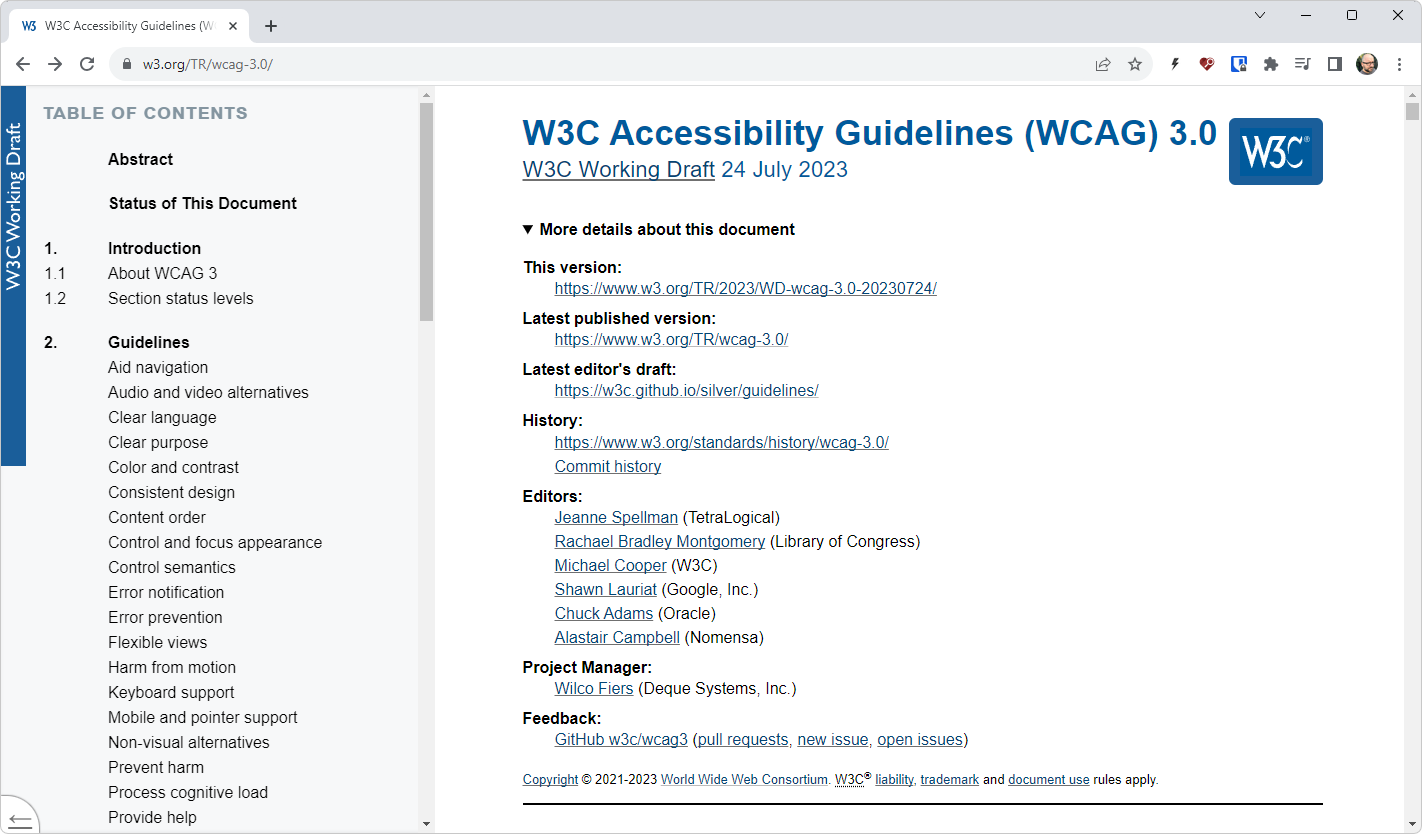
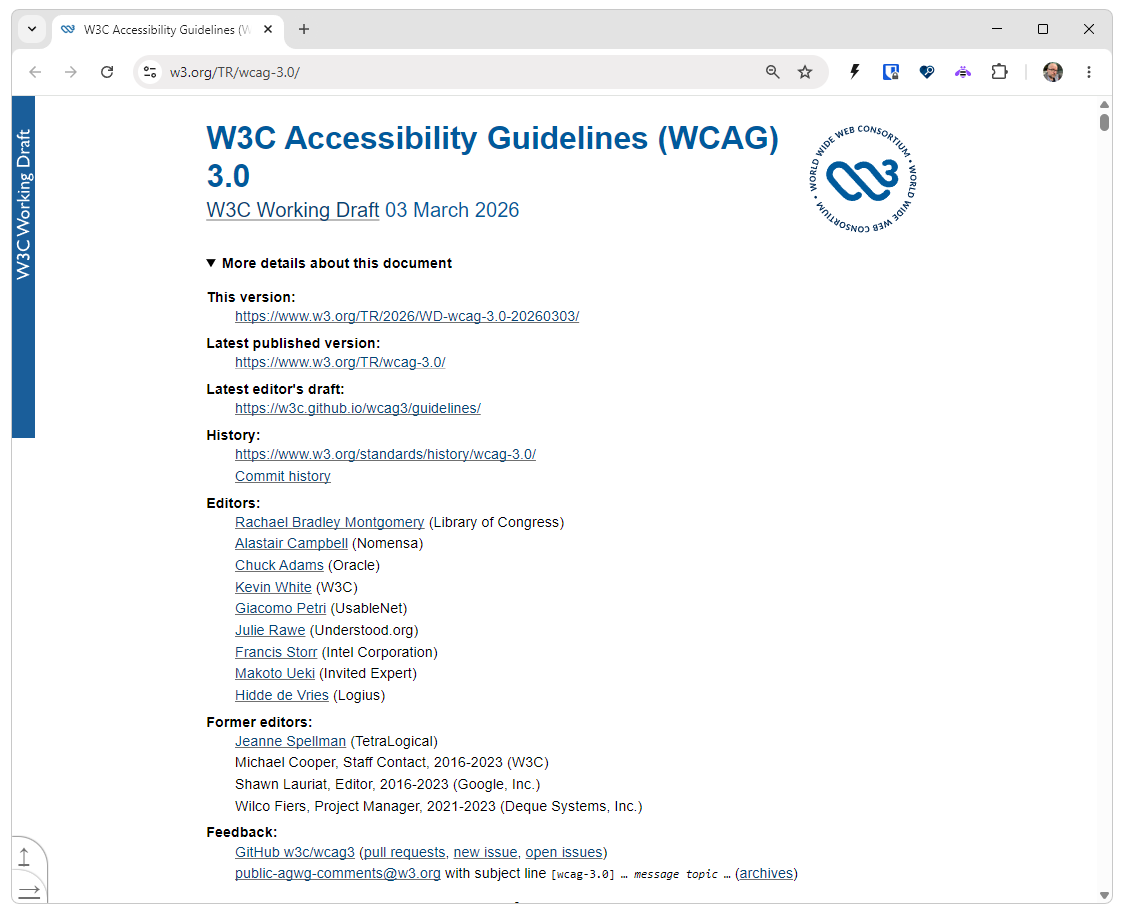
Update for 2026
* tweak examples
* include info about WCAG 2.x backlog TF and latest figures

Changed region(s): [[0.0, 0.0, 1.0, 1.0], [0.0622, 0.2806, 0.1867, 0.3741], [0.6844, 0.0624, 0.7156, 0.0935]]

diff --git a/index.html b/index.html
@@ -32,8 +32,7 @@
     <h2>about me …</h2>
     <ul>
     <li>principal accessibility specialist at <a target=_blank rel=noopener href="https://www.tetralogical.com/">TetraLogical</a></li>
-    <li>previously at The Paciello Group (now TPGi)</li>
-    <li>occasional W3C AGWG member</li>
+    <li>co-facilitator of the W3C AGWG WCAG 2.x backlog task force</li>
     <li>WCAG <strong>trash panda</strong></li>
     </ul>
 </div></section>
@@ -42,7 +41,7 @@
 
 <section class="slide listing"><div>
     <h2 lang="fr">déjà vu?</h2>
-    <p>you may have already seen an earlier version of this talk …</p>
+    <p>you may have already seen an earlier version of this talk</p>
     <p>even years later, <strong>the same question still bubbles up</strong><br><small>(on mailing lists, a11ySlack, mastodon, …)</small></p>
 </div></section>
 
@@ -66,7 +65,7 @@
 
 <section class="slide statement"><div>
     <div>
-        <p>far too often, auditors clearly <strong>dislike</strong> something, and look for a <strong>justification to fail it</strong> …</p>
+        <p>far too often, auditors clearly <strong>dislike</strong> something, and look for a <strong>justification to fail it</strong></p>
         <p><small>and I get it … sometimes it's just to show how smart we are</small></p>
     </div>
 </div></section>
@@ -92,7 +91,8 @@
 
 <section class="slide listing"><div>
     <h2>we are not <strong>lawyers</strong> (or judges)</h2>
-    <p>but our audits and evaluations often have some legal dimension to them.</p>
+    <p>but our audits and evaluations often have some legal dimension to them<br>
+    <small>(<abbr title="European Accessibility Act">EAA</abbr> / <abbr title="European Norm">EN</abbr> 301 549, <abbr lang="de" title="Barrierefreie-Informationstechnik-Verordnung">BITV</abbr>, <abbr lang="fr" title="Référentiel général d'amélioration de l'accessibilité">RGAA</abbr>, Section 508)</small></p>
     <ul>
         <li>evaluations should be as objective as possible</li>
         <li>evaluations should be consistent</li>
@@ -106,15 +106,6 @@
     <div>
         <p>WCAG is built on the idea that <strong>success criteria</strong> can be evaluated clearly, unambiguously and consistently…</p>
         <p class="context">… but that's not always the case</p>
-    </div>
-</div></section>
-
-<!-- -->
-
-<section class="slide statement"><div>
-    <div>
-        <p>with <strong class="new">WCAG 2.2</strong> we now have<br>9 more SCs!</p>
-        <p class="context">… just more potential for confusion and misinterpretation?</p>
     </div>
 </div></section>
 
@@ -297,22 +288,17 @@
 
 <section class="slide listing"><div>
     <div>
-        <h2>1.4.1 <strong>Use of Color</strong> (A)</h2>
-        <blockquote><p>Color is not used as the only visual means of conveying information, indicating an action, prompting a response, or distinguishing a visual element.</p></blockquote>
-        <img src="images/use-of-color-links.png" alt="Two lines of black text, both containing a link each; the links aren't underlines; in the first line, the link is blue, while in the second line the link is black just like the text (and not discernible at all visually)">
-        <p>both lines contain a link. but only in the first line is <strong>colour</strong> used.</p>
-        <p>the first cases <strong>fails</strong> 1.4.1 Use of Color, but the second <strong>passes</strong></p>
-        <p>auditors pondering failing the previous example for <strong>not</strong> using colour …</p>
+        <h2>1.3.1 <strong>Info and Relationships</strong> (A)</h2>
+        <blockquote><p>Information, structure, and relationships conveyed through presentation can be programmatically determined or are available in text.</p></blockquote>
+        <p>auditors pondering failing structured semantic content that is <strong>not</strong> styled/presented a certain way …</p>
     </div>
 </div></section>
 
 <!-- -->
 
-<section class="slide listing"><div>
+<section class="slide"><div>
     <div>
-        <h2>1.3.1 <strong>Info and Relationships</strong> (A)</h2>
-        <blockquote><p>Information, structure, and relationships conveyed through presentation can be programmatically determined or are available in text.</p></blockquote>
-        <p>auditors pondering failing the previous example for <strong>not</strong> conveying things through presentation …</p>
+        <img src="images/link-vs-button.png" alt="Link vs. Button - the link is blue and underlined, and the button is a blue pill shape with white text">
     </div>
 </div></section>
 
@@ -329,7 +315,7 @@
 
 <section class="slide impact"><div>
     <div>
-        WCAG success criteria and <strong>cascades of fail</strong> …
+        WCAG success criteria and <strong>cascades of fail</strong>
     </div>
 </div></section>
 
@@ -351,7 +337,7 @@
 
 <section class="slide impact"><div>
     <div>
-        <strong>interrelated</strong> criteria …
+        <strong>interlinked</strong> criteria
     </div>
 </div></section>
 
@@ -378,7 +364,7 @@
         <li><strong>2.5.8</strong> Target Size (Minimum) → <strong>2.5.5</strong> Target Size (Enhanced)</li>
         <li><strong>3.3.8</strong> Accessible Authentication (Minimum) → <strong>3.3.9</strong> Accessible Authentication (Enhanced)</li>
     </ul>
-    <p><strong>fail one, and you automatically fail the other …</strong></p>
+    <p><strong>fail one, and you automatically fail the other</strong></p>
     <p>need consistency in how this is reported (if you care about AAA)</p>
 </div></section>
 
@@ -386,7 +372,7 @@
 
 <section class="slide statement"><div>
     <div>
-        <p>auditor education / consistency problems …</p>
+        <p>auditor education / consistency problems</p>
         <p class="context">internal training and resources can help</p>
     </div>
 </div></section>
@@ -405,7 +391,7 @@
 <section class="slide statement"><div>
     <div>
         <p>WCAG 2.x is <strong>not perfect</strong></p>
-        <p class="context">written by well-meaning, but fallible humans …</p>
+        <p class="context">written by well-meaning, but fallible humans</p>
     </div>
 </div></section>
 
@@ -413,7 +399,7 @@
 
 <section class="slide impact"><div>
     <div>
-        WCAG success criteria can be <strong>subjective</strong> …
+        WCAG success criteria can be <strong>subjective</strong>
     </div>
 </div></section>
 
@@ -445,7 +431,7 @@
 
 <section class="slide impact"><div>
     <div>
-        WCAG has a few strange <strong>omissions</strong>, <strong>ambiguities</strong>, <strong>exemptions</strong> …
+        WCAG has a few strange <strong>omissions</strong>, <strong>ambiguities</strong>, <strong>exemptions</strong>
     </div>
 </div></section>
 
@@ -478,7 +464,7 @@
 
 <section class="slide impact"><div>
     <div>
-        <p class="context">understanding documents and techniques try to clarify …</p>
+        <p class="context">understanding documents and techniques try to clarify</p>
         <p><strong>normative</strong> versus<br><strong>non-normative</strong></p>
     </div>
 </div></section>
@@ -569,7 +555,7 @@
         <p class="context"><del>2.4.11 Focus Appearance (Minimum) (Level AA)</del></p>
         <p class="context"><del>2.4.12 Focus Appearance (Enhanced) (Level AAA)</del></p>
         <p class="context">2.4.13 <strong> Focus Appearance </strong> (Level AAA)</p>
-        <p><small>Only at Level AAA … <strong>where success criteria go to die</strong> …</small></p>
+        <p><small>Only at Level AAA … <strong>where success criteria go to die</strong></small></p>
     </div>
 </div></section>
 
@@ -588,7 +574,7 @@
 <section class="slide listing"><div>
     <div>
         <img class="bordered" src="images/focus-obscured.png" alt="Screenshot of a site with a sticky header - a link in the underlying main content has focus, and is half obscured by the header">
-        <p>classic example: sticky header …</p>
+        <p>classic example: sticky header</p>
         <p>this <strong>passes</strong> 2.4.11 Focus Not Obscured (Minimum) (AA)</p>
         <p>but how far can we take the "not <strong>entirely</strong> hidden" aspect?</p>
     </div>
@@ -599,7 +585,7 @@
 <section class="slide listing"><div>
     <div>
         <img class="bordered" src="images/focus-obscured-extreme2.png" alt="Screenshot of a site with a sticky header - a link in the underlying main content has focus, and is completely covered except for the bottom 1px border of the focus indicator just peeking out from underneath the header">
-        <p>arguably … not <strong>entirely</strong> hidden<br><small>(but is the focus indicator part of the component? <a target=_blank rel=noopener href="https://github.com/w3c/wcag/issues/3529">wcag/issues/3529</a>)</small></p>
+        <p>arguably … not <strong>entirely</strong> hidden?</p>
     </div>
 </div></section>
 
@@ -647,7 +633,7 @@
 
 <section class="slide impact"><div>
     <div>
-        <p>SCs that are <strong>overly</strong> specific …</p>
+        <p>SCs that are <strong>overly</strong> specific</p>
         <p class="context">and then end up <strong>only</strong> applying to very specific cases</p>
     </div>
 </div></section>
@@ -714,7 +700,7 @@
 
 <section class="slide"><div>
     <img src="images/authentication.png" alt="Two forms side by side: on the left, a sign-in form with a CAPTCHA; on the right, the almost exact same form, but the submit button now says 'sign up' instead of 'sign in'">
-    <p>what counts as an <strong>authentication process</strong> …</p>
+    <p>what counts as an <strong>authentication process</strong> ?</p>
 </div></section>
 
 <!-- -->
@@ -731,8 +717,7 @@
     <div>
         <h2>2.5.8 <strong>Target Size (Minimum)</strong> (AA)</h2>
         <div class="new">New in WCAG 2.2</div>
-        <blockquote><p>The size of the target for pointer inputs is at least 24 by 24 CSS pixels […]</p>
-        </blockquote>
+        <blockquote><p>The size of the target for pointer inputs is at least 24 by 24 CSS pixels […]</p></blockquote>
         <p>at first glance, the SC defines a minimum target size (it says so in the title)</p>
     </div>
 </div></section>
@@ -770,7 +755,7 @@
         <div class="new">New in WCAG 2.2</div>
         <blockquote><p>If a Web page contains any of the following help mechanisms, and those mechanisms are repeated on multiple Web pages within a set of Web pages, they occur in <strong>the same order relative to other page content</strong>, unless a change is initiated by the user […]:</p>
         </blockquote>
-        <p>the understanding document goes in depth listing and explaining help mechanisms, but the SC doesn't actually <strong>require</strong> any help mechanisms to be present at all …</p>
+        <p>the understanding document goes in depth listing and explaining help mechanisms, but the SC doesn't actually <strong>require</strong> any help mechanisms to be present at all</p>
     </div>
 </div></section>
 
@@ -806,7 +791,7 @@
 
 <section class="slide cover"><div>
     <div>
-        <img class="cover" src="images/sudden-clarity-clarence.png" alt="Meme picture 'sudden clarity Clarence': young man at a packed party/rave, staring into the distance as if he is having an epiphany">
+        <img class="cover" src="images/sudden-clarity-clarence.jpg" alt="Meme picture 'sudden clarity Clarence': young man at a packed party/rave, staring into the distance as if he is having an epiphany">
     </div>
 </div></section>
 
@@ -840,7 +825,7 @@
 <section class="slide"><div>
     <div>
         <img src="images/color-contrast-comparison.png" alt="Color Contrast Analyser, showing that #777777 on #FFFFFF fails with contrast just below 4.5:1, but #767677 on #FFFFFF passes at exactly 4.5:1 - but visually the two greys are indistinguishable">
-        <p>sometimes the values/thresholds are just arbitrary <strong>lines in the sand</strong> …</p>
+        <p>sometimes the values/thresholds are just arbitrary <strong>lines in the sand</strong></p>
     </div>
 </div></section>
 
@@ -866,7 +851,7 @@
 <section class="slide impact"><div>
     <div>
         <p><strong>loopholes</strong>, <strong>omissions</strong> and <strong>subjective</strong> requirements can and will be <strong>exploited</strong></p>
-        <p class="context">auditors aren't the only ones who try to find these gaps …</p>
+        <p class="context">auditors aren't the only ones who try to find these gaps</p>
     </div>
 </div></section>
 
@@ -875,6 +860,14 @@
 <section class="slide"><div>
     <div>
         <img class="cover pixelated" src="images/bobbyapproved.png" alt="Classic 'Bobby v3.2 Approved' badge, with the comic-style british bobby/policeman with a wheelchair user symbol on his helmet">
+    </div>
+</div></section>
+
+<!-- -->
+
+<section class="slide"><div>
+    <div>
+        <img class="cover" src="images/lighthouse-100s.png" alt="The four results for a Lighthouse analysis, showing 100% for Performance, Accessibility, Best Practices, SEO">
     </div>
 </div></section>
 
@@ -898,8 +891,9 @@
 
 <section class="slide"><div>
     <div>
-        <img src="images/github-w3c-wcag-lauke.png" alt="Screenshot of W3C WCAG GitHub repository issues/pull requests, filtered for all open items involving me">
-        <p>join my <strong>WCAG Trash Panda Web Ring</strong><br><a target=_blank rel=noopener href="https://github.com/w3c/wcag/issues?q=is%3Aopen%20patrickhlauke">github.com/w3c/wcag/issues?q=is%3Aopen%20patrickhlauke</a><br>to look for discussions and <strong>pending clarifications</strong></p>
+        <img class="cover" src="images/github-w3c-wcag-counters-10.2023.png" alt="Close-up of the W3C WCAG GitHub repository, showing it has 613 open issues, 209 pull requests, and 288 branches">
+        <p><strong>technical debt:</strong> most efforts in the past going towards <strong>new WCAG 3.0</strong><br> rather than fixing/clarifying 2.0 / 2.1 / 2.2</p>
+        <p class="context">(above numbers are from October 2023)</p>
     </div>
 </div></section>
 
@@ -907,18 +901,39 @@
 
 <section class="slide"><div>
     <div>
-        <img class="cover" src="images/github-w3c-wcag-counters.png" alt="Close-up of the W3C WCAG GitHub repository, showing it has 613 open issues, 209 pull requests, and 288 branches">
-        <p>frustration: most efforts has been going towards <strong>new WCAG 2.2 <abbr title="Success Criteria">SCs</abbr></strong><br>rather than fixing what's broken in 2.0/2.1</p>
-    </div>
-</div></section>
-
-<!-- -->
-
-<section class="slide"><div>
-    <div>
-        <img src="images/wcag3.png" alt="Screenshot of the W3C Accessibility Guidelines (WCAG) 3.0 - W3C Working Draft 24 July 2023">
+        <img src="images/wcag3.png" alt="Screenshot of the W3C Accessibility Guidelines (WCAG) 3.0 - W3C Working Draft 3 March 2026">
         <p><a target=_blank rel=noopener href="https://www.w3.org/TR/wcag-3.0/">w3.org/TR/wcag-3.0</a> … but still <strong>very early days</strong></p>
-        <p class="context">and it will be quite some time before legislation references 3.0 once it's actually a ratified recommendation …</p>
+        <p class="context">and it will be quite some time before legislation references 3.0 once it's actually a ratified recommendation</p>
+    </div>
+</div></section>
+
+<!-- -->
+
+<section class="slide"><div>
+    <div>
+        <img src="images/w3c-wai-ig-high-number-of-wcag-issues-and-pull-requests.png" alt="Screenshot of an email from Patrick H. Lauke to w3c-wai-ig mailing list, 3 May 2021. Subject: High numbers of WCAG issues and pull requests.">
+        <p>something I’ve been complaining to working group for a while…</p>
+        <p class="context"><a href="https://lists.w3.org/Archives/Public/w3c-wai-ig/2021AprJun/0090.html">lists.w3.org/Archives/Public/w3c-wai-ig/2021AprJun/0090.html</a></p>
+    </div>
+</div></section>
+
+<!-- -->
+
+<section class="slide"><div>
+    <div>
+        <img src="images/w3c-wcag2x-backlog-board.png" alt="Screenshot of the WCAG 2.x project board">
+        <p>WCAG 2.x Backlog Task Force</p>
+        <p><a href="https://github.com/orgs/w3c/projects/56">github.com/orgs/w3c/projects/56</a></p>
+    </div>
+</div></section>
+
+<!-- -->
+
+<section class="slide"><div>
+    <div>
+        <img class="cover" src="images/github-w3c-wcag-counters+done-05.2026.png" alt="Close-up of the W3C WCAG GitHub repository, showing it has 443 open issues, 95 pull requests, and 82 branches; inset shows 700 'Done' items from the WCAG 2.x backlog board">
+        <p>sisyphean task, but slowly making WCAG 2.x backlog more manageable</p>
+        <p class="context">(above numbers are from May 2026)</p>
     </div>
 </div></section>
 
@@ -952,7 +967,7 @@
 <section class="slide statement"><div>
     <div>
         <p>“but unless it's reported as a <strong>WCAG failure</strong> <br>the client won't change it”</p>
-        <p class="context">then you have more fundamental problem …</p>
+        <p class="context">then you have more fundamental problem</p>
     </div>
 </div></section>
 

diff --git a/shower/themes/redux-tetralite/styles/overrides.css b/shower/themes/redux-tetralite/styles/overrides.css
@@ -10,7 +10,7 @@ hr {
 }
 
 abbr {
-    text-decoration: underline dashed;
+    text-decoration: underline dotted;
 }
 
 .slide p.context {
